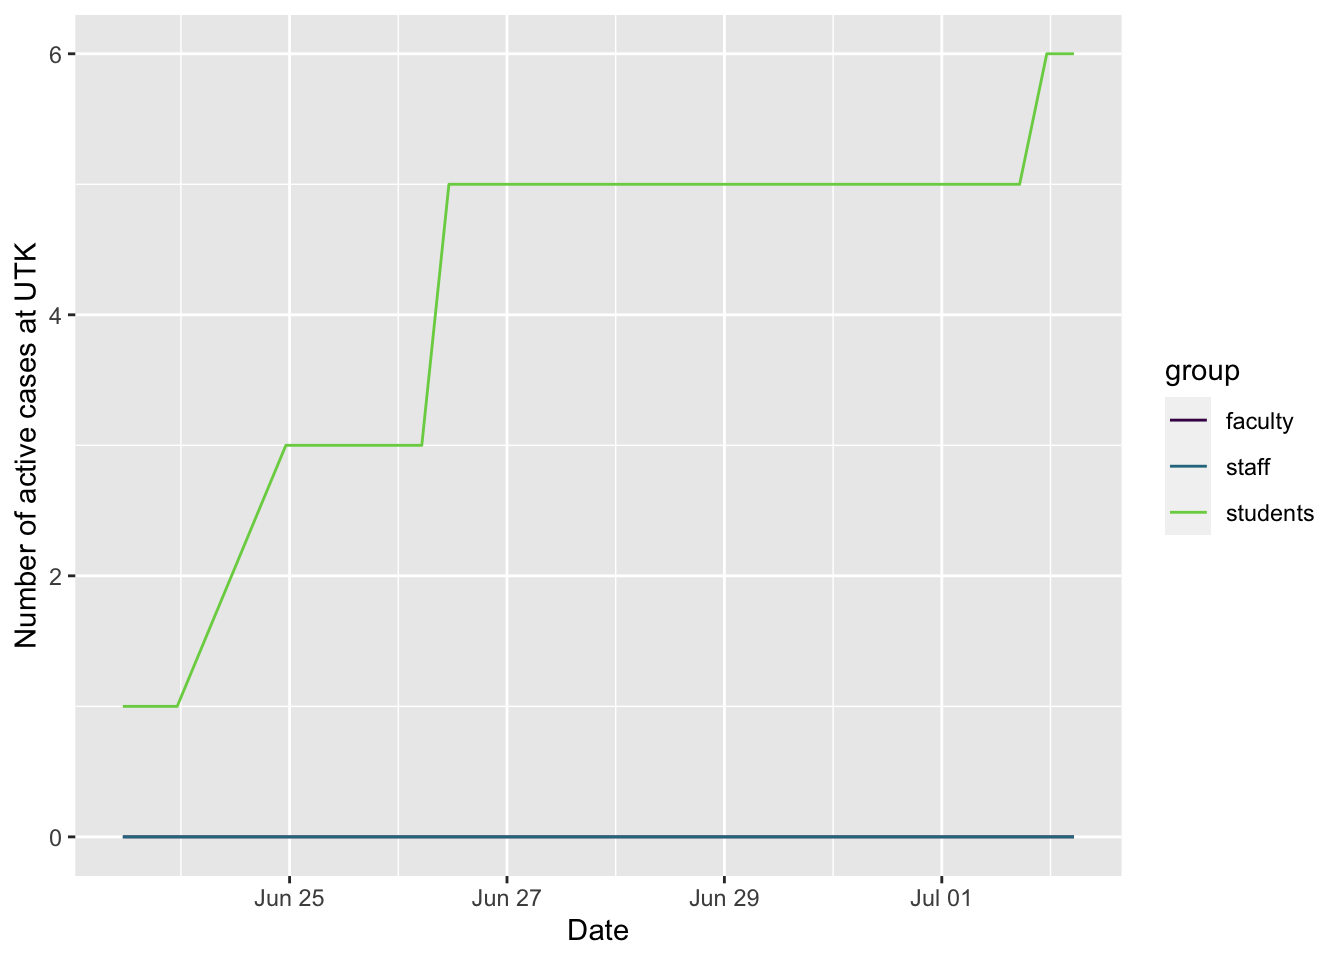
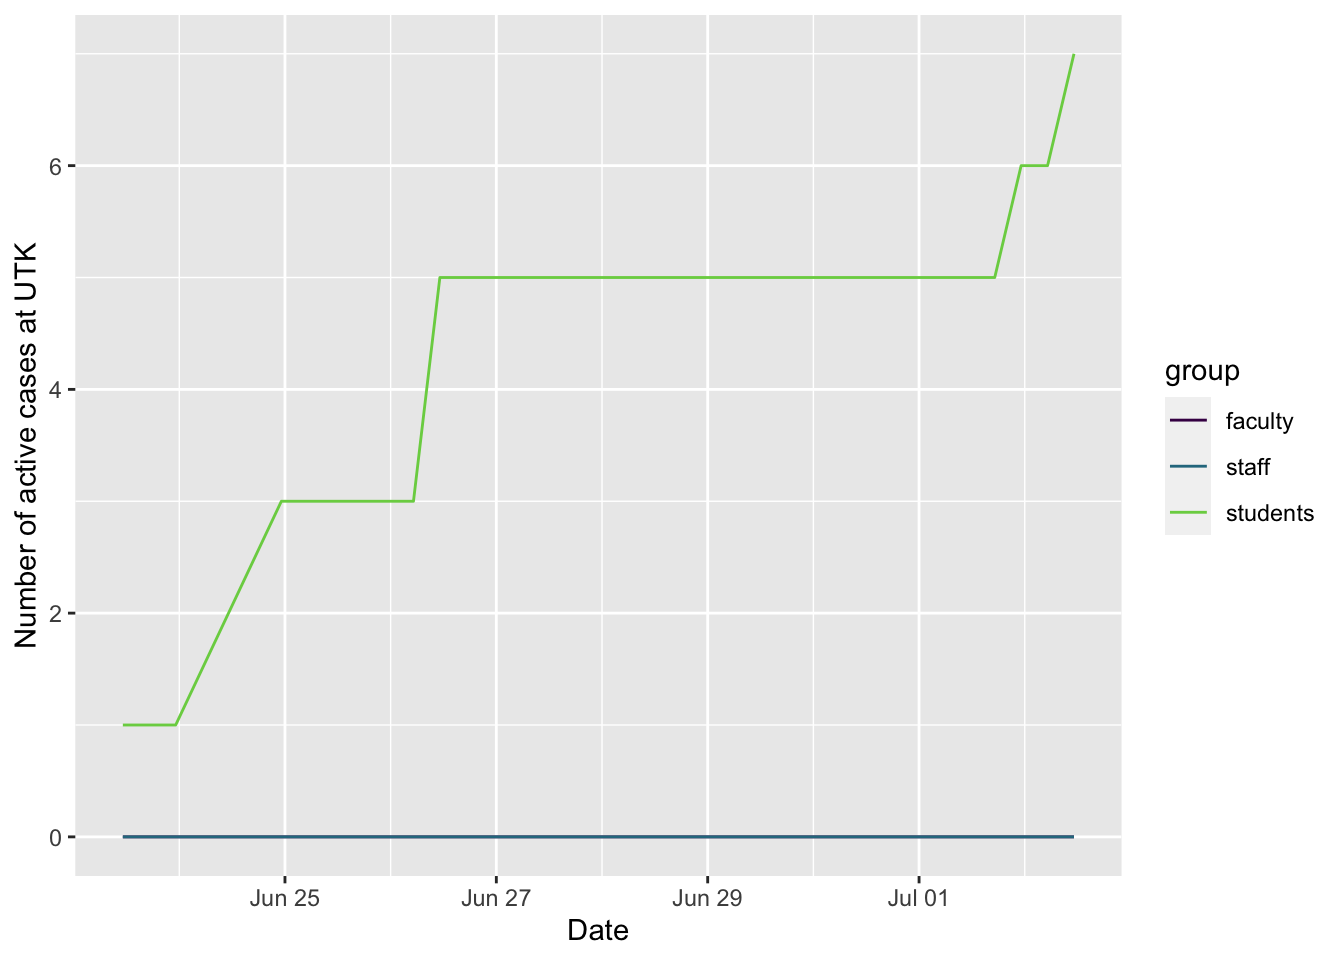
updating site

diff --git a/docs/covid.html b/docs/covid.html
@@ -403,14 +403,16 @@ $(document).ready(function () {
 <hr />
 <ul>
 <li><a href="https://www.utk.edu/coronavirus/">UTK coronavirus information</a>. See especially the <a href="https://chancellor.utk.edu/re-imagining-fall-task-force/report/">current task force report</a>.</li>
-<li><a href="https://covid.knoxcountytn.gov/case-count.html#covid_data">Knox County data</a>. This also includes info about Knox’s reopening plan and the benchmarks they’re using.</li>
+<li><a href="https://covid.knoxcountytn.gov/case-count.html#covid_data">Knox County data</a>. This also includes info about Knox’s reopening plan and the benchmarks they’re using</li>
+<li><a href="https://insideofknoxville.com/">Inside of Knoxville</a> has reporting out of every health board meeting and other local news.</li>
+<li><i><a href="https://www.knoxnews.com/news/">Knoxville News Sentinel</a></i> is our remaining local paper (though some of its staff have been furloughed) and it covers covid in Knoxville and Knox County.</li>
 <li><a href="https://covid19-projections.com/us-tn">Projections for Tennessee</a></li>
 <li><a href="https://covidactnow.org/us/tn?s=49762">Covid ActNow aggregate</a> of information, including contact tracing, infection rate, and more</li>
 <li><a href="https://nextstrain.org/ncov">COVID-19 phylogeny</a>. Family tree of the COVID-19 viruses around the world. This can be used by experts to understand how the disease has spread and is continuing to spread, as well as possible evolution during its spread.</li>
 <li><a href="https://projects.propublica.org/reopening-america/">ProPublica’s tracker of state status</a>. Click on the play button below their map to see how rates are changing over time, and dig into info on your state.</li>
 </ul>
 <hr />
-<p>Here are some plots, created in R using data from <a href="https://covid19datahub.io" class="uri">https://covid19datahub.io</a> (Guidotti, E., Ardia, D., (2020), “COVID-19 Data Hub”, Working paper, doi: 10.13140/RG.2.2.11649.81763), as well as information from Google and the <a href="https://www.tn.gov/health/cedep/ncov/data/downloadable-datasets.html">state of Tennessee dataset page</a> and plotting and analysis using the <code>forecast</code>, <code>ggplot2</code>, <code>reshape2</code>, and <code>dplyr</code> packages. Plots created on 2020-07-02 08:16:57. I use <code>ggplot2</code>’s <code>geom_smooth()</code> function for the smoothed regression plots with its default formula, which uses loess smoothing for this many points. This is not based on a model of disease spread or anything similarly sophisticated, just drawing a smooth curve to summarize noisy points (see <a href="https://www.itl.nist.gov/div898/handbook/pmd/section1/pmd144.htm">here</a> for more details).</p>
+<p>Here are some plots, created in R using data from <a href="https://covid19datahub.io" class="uri">https://covid19datahub.io</a> (Guidotti, E., Ardia, D., (2020), “COVID-19 Data Hub”, Working paper, doi: 10.13140/RG.2.2.11649.81763), as well as information from Google and the <a href="https://www.tn.gov/health/cedep/ncov/data/downloadable-datasets.html">state of Tennessee dataset page</a> and plotting and analysis using the <code>forecast</code>, <code>ggplot2</code>, <code>reshape2</code>, and <code>dplyr</code> packages. Plots created on 2020-07-02 11:14:18. I use <code>ggplot2</code>’s <code>geom_smooth()</code> function for the smoothed regression plots with its default formula, which uses loess smoothing for this many points. This is not based on a model of disease spread or anything similarly sophisticated, just drawing a smooth curve to summarize noisy points (see <a href="https://www.itl.nist.gov/div898/handbook/pmd/section1/pmd144.htm">here</a> for more details).</p>
 <p>The number of new and active cases should be not be going up if things are well-controlled, and ideally should be going down. The number of active cases is the number of positive cases minus the total of recovered or deceased cases: note it is from those tested and shown to be positive, but there are likely more people with covid who have not been tested. This uses data from <a href="https://www.tn.gov/health/cedep/ncov/data/downloadable-datasets.html" class="uri">https://www.tn.gov/health/cedep/ncov/data/downloadable-datasets.html</a>. Note that the number of active cases in Knox County reported by the state differs from the <a href="https://covid.knoxcountytn.gov/case-count.html#covid_data">county website</a>, sometimes dramatically (on June 16, the county website said 102 active cases, while the state says 178, for example) – I suspect this is based on the number of recovered cases not being updated as quickly in the state data, but I do not know. Knox County does not seem to offer a download of their data through time, so I am using the state’s data. The number of new cases per day seems to align fairly well, but not perfectly, between the state and county data, too.</p>
 <p><img src="covid_files/figure-html/plotsA-1.png" width="672" /><img src="covid_files/figure-html/plotsA-2.png" width="672" /></p>
 <p>Knox County has published <a href="https://covid.knoxcountytn.gov/case-count.html#covid_data">its guidelines</a>. For it to be green for the number of new cases, it requires “No three-day shifts of 1.5 standard deviations above a rolling mean (based on data from the previous 14 days).” It’s not quite clear to me what this means (the average of the three days can’t exceed this or <strong>all</strong> or <strong>any</strong> of the three days can’t exceed it?); I’m taking the interpretation that if the three day mean is above this value, there’s a problem. They update their stop lights weekly; this looks at each day to see if the average of that day and the two previous days exceeds what seems to be their threshold. Remember that this is just me playing with the data – they’re the experts to decide if cases are growing enough to be worrisome.</p>
